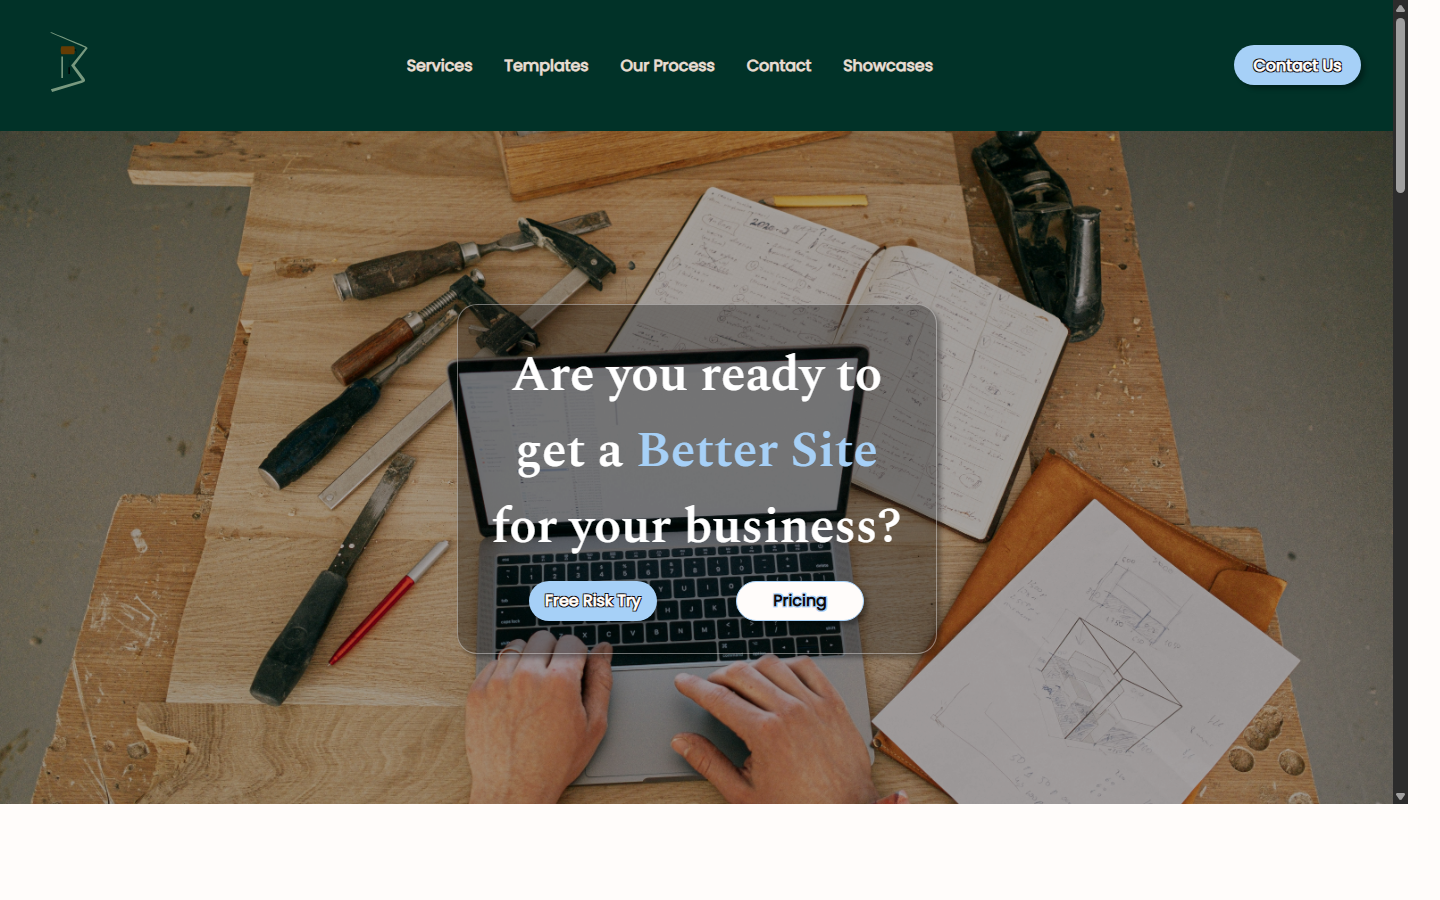
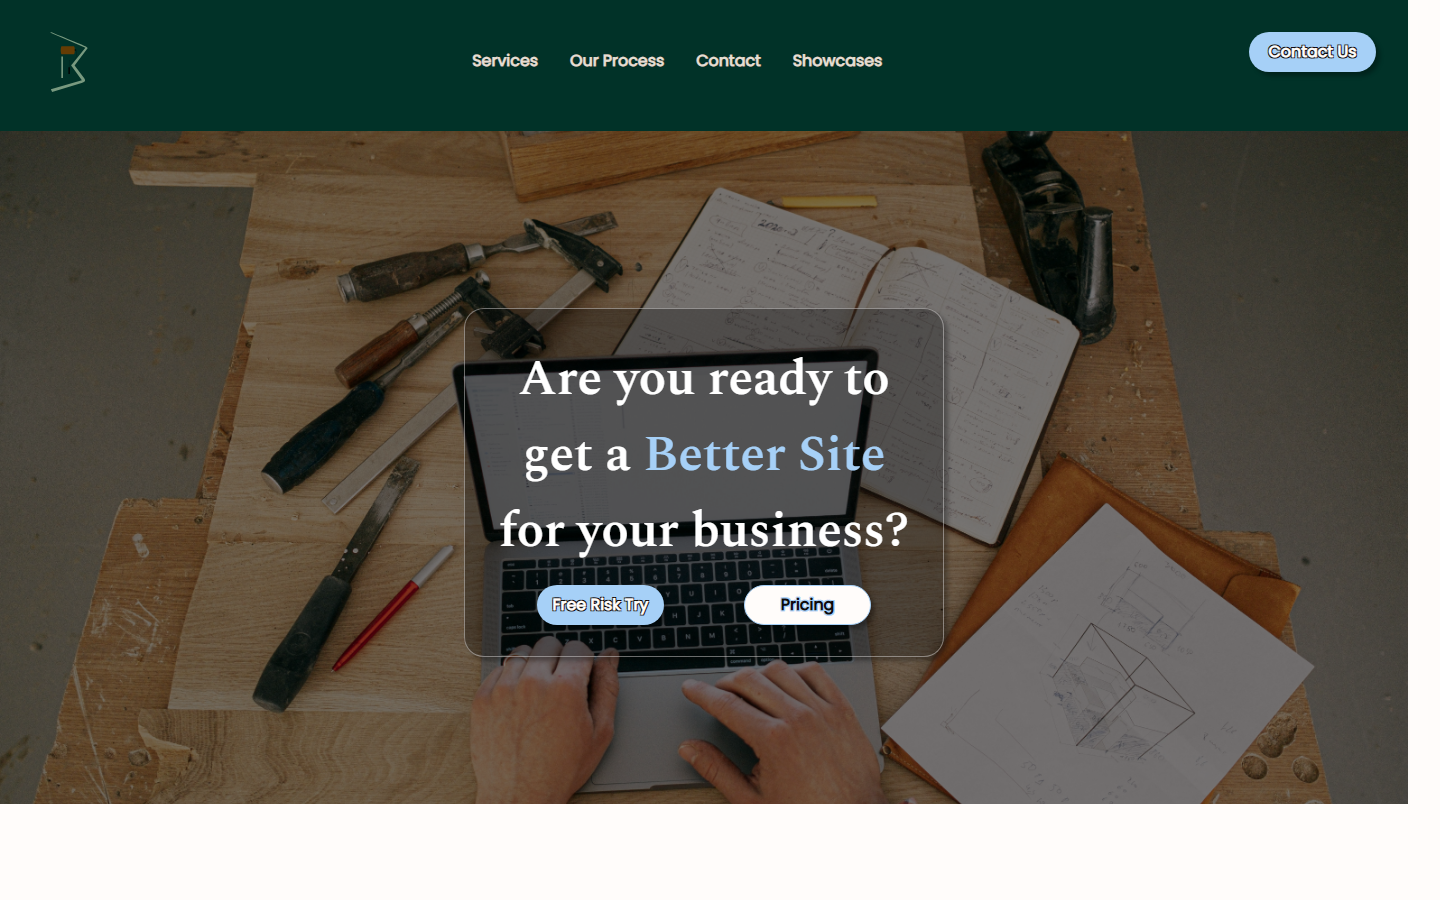
Revert mockup experiments, keep navigation fixes and project data

diff --git a/pages/api/projects.js b/pages/api/projects.js
@@ -65,23 +65,23 @@ export const projects = [
     year: "2022",
     role: "Developer (Team of 4)",
     tech: ["Next.js", "React", "CSS", "REST API", "Supabase"],
-    projectimg: "/media/projects/Cosmo_Festival/mockup.png",
+    projectimg: "/media/projects/Cosmo_Festival/mockup_new.png",
     description:
       "A full-stack festival booking app. Browse the lineup across three stages, filter by day or genre, explore band details, and complete a full ticket booking flow with accommodation, tent rental, and checkout.",
-    mockup: "/media/projects/Cosmo_Festival/mockup.png",
+    mockup: "/media/projects/Cosmo_Festival/mockup_new.png",
     url: "https://cosmosfestival.netlify.app/",
     github: "https://github.com/KarinaValens/cosmos-festival",
     sections: [
       {
-        image: "/media/projects/Cosmo_Festival/schedule.png",
+        image: "/media/projects/Cosmo_Festival/schedule_new.png",
         text: "The schedule viewer displays acts across three Norse-themed stages — Midgard, Vanaheim, and Jotunheim — with day filtering and band search. Each act links to a detail page with bio, members, and genre.",
       },
       {
-        image: "/media/projects/Cosmo_Festival/booking.png",
+        image: "/media/projects/Cosmo_Festival/booking_new.png",
         text: "The booking flow lets users pick regular or VIP tickets, choose from five camping areas with real-time availability, and optionally rent tents. A dynamic shopping cart calculates totals including booking fees.",
       },
       {
-        image: "/media/projects/Cosmo_Festival/checkout.png",
+        image: "/media/projects/Cosmo_Festival/checkout_new.png",
         text: "After confirming a reservation, a 5-minute countdown timer starts. Users fill in ticket holder info, then proceed to payment. The entire checkout state is managed through React Context.",
       },
     ],
@@ -94,23 +94,23 @@ export const projects = [
     year: "2023",
     role: "Solo Developer & Designer",
     tech: ["Next.js", "React", "Framer Motion", "Mailchimp", "REST API"],
-    projectimg: "/media/projects/Better_Sites/mockup.png",
+    projectimg: "/media/projects/Better_Sites/mockup_new.png",
     description:
       "A marketing website for a web design agency offering fully managed website subscriptions. Features animated UI, tiered pricing with checkout, a portfolio showcase, and newsletter integration.",
-    mockup: "/media/projects/Better_Sites/mockup.png",
-    url: "",
+    mockup: "/media/projects/Better_Sites/mockup_new.png",
+    url: "https://bettersites.netlify.app/",
     github: "https://github.com/KarinaValens/better-sites",
     sections: [
       {
-        image: "/media/projects/Better_Sites/services.png",
+        image: "/media/projects/Better_Sites/services_new.png",
         text: "The services page features animated cards with hover effects built in Framer Motion, showcasing what the agency offers — from hassle-free hosting to SEO optimization and conversion-focused design.",
       },
       {
-        image: "/media/projects/Better_Sites/pricing.png",
+        image: "/media/projects/Better_Sites/pricing_new.png",
         text: "Three pricing tiers (Basic, Popular, Pro) with a full checkout flow. Users select a package, fill in payment details, and receive an order confirmation — all managed through React Context state.",
       },
       {
-        image: "/media/projects/Better_Sites/process.png",
+        image: "/media/projects/Better_Sites/process_new.png",
         text: "A 7-step visual walkthrough explaining the onboarding process — from sign-up to launch. Each step includes descriptive text and imagery to set client expectations.",
       },
     ],
@@ -123,19 +123,19 @@ export const projects = [
     year: "2023",
     role: "Solo Developer",
     tech: ["Next.js", "React", "REST API", "Restdb.io"],
-    projectimg: "/media/projects/Internship_Logbook/mockup.png",
+    projectimg: "/media/projects/Internship_Logbook/mockup_new.png",
     description:
       "A web app documenting daily activities during my 10-week internship at SINOLAB, where I developed the DANGDI social media app using FlutterFlow. Built to present my work to KEA examiners in an interactive format.",
-    mockup: "/media/projects/Internship_Logbook/mockup.png",
-    url: "",
+    mockup: "/media/projects/Internship_Logbook/mockup_new.png",
+    url: "https://intership-logbook.vercel.app/",
     github: "https://github.com/KarinaValens/intership_logbook",
     sections: [
       {
-        image: "/media/projects/Internship_Logbook/entries.png",
+        image: "/media/projects/Internship_Logbook/entries_new.png",
         text: "Daily entries are organized by month in a calendar view. Each entry includes activities, achievements, challenges, images, and source links — providing a complete picture of every day at the internship.",
       },
       {
-        image: "/media/projects/Internship_Logbook/detail.png",
+        image: "/media/projects/Internship_Logbook/entries_new.png",
         text: "Individual entry pages break down the day into structured sections with an image carousel, making it easy for examiners to follow the progression of work throughout the internship.",
       },
     ],
